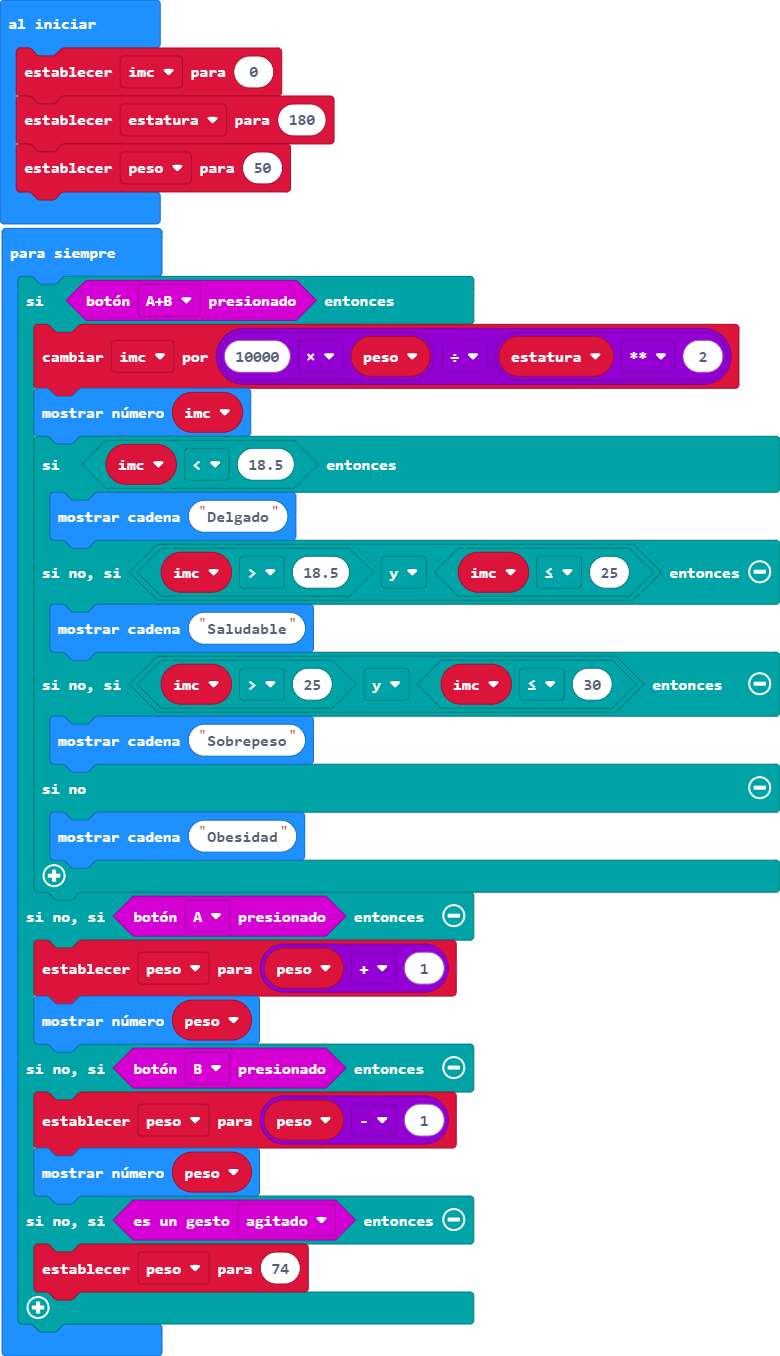
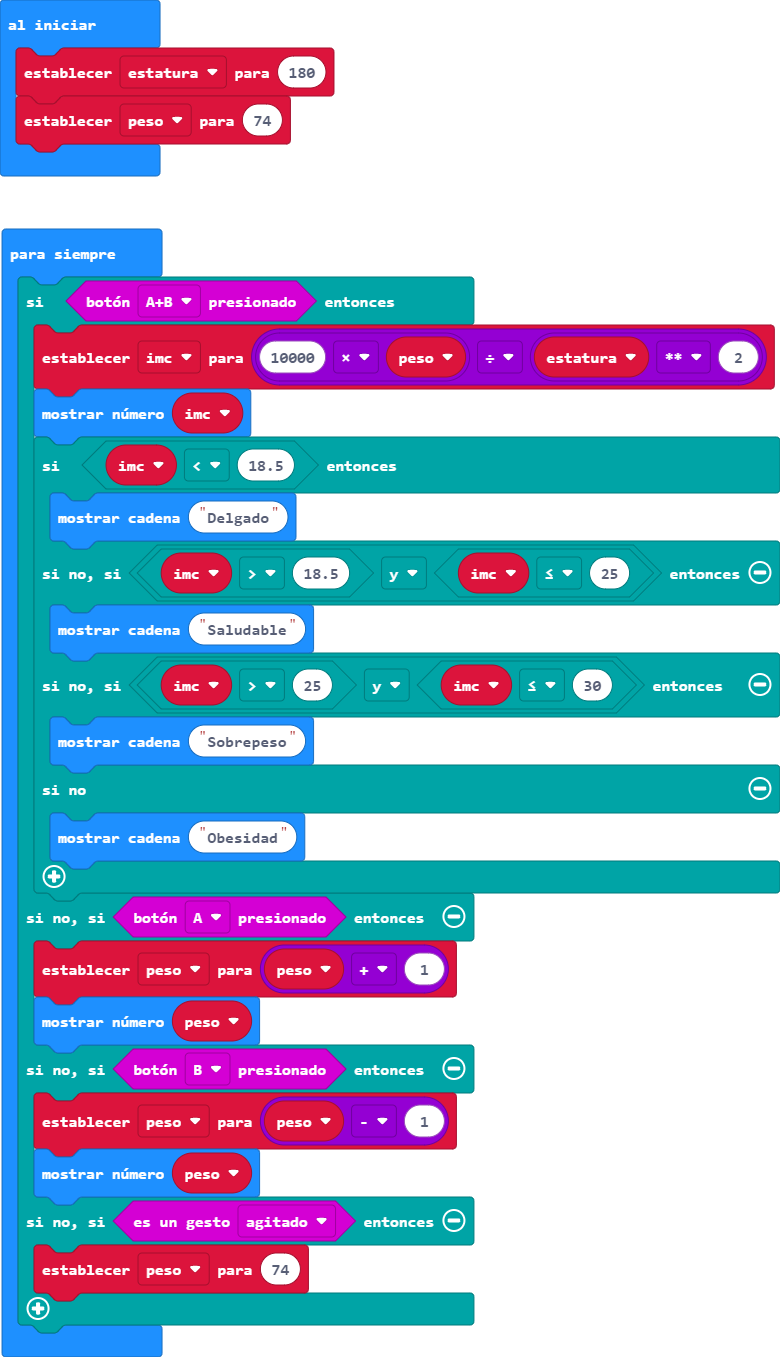
se mejora el botón a+b

diff --git a/main.ts b/main.ts
@@ -1,9 +1,9 @@
 let imc = 0
 let estatura = 180
-let peso = 50
+let peso = 74
 basic.forever(function () {
     if (input.buttonIsPressed(Button.AB)) {
-        imc += 10000 * peso / estatura ** 2
+        imc = 10000 * peso / estatura ** 2
         basic.showNumber(imc)
         if (imc < 18.5) {
             basic.showString("Delgado")
